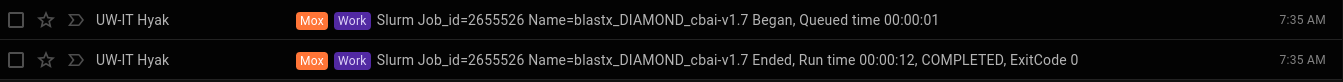
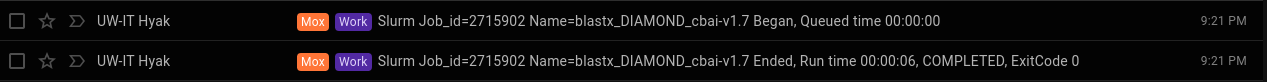
add updated runtime from rerun with fixed fastqs

diff --git a/_posts/2020/2020-05-27-Transcriptome-Annotation---C.bairdi-Transcriptome-v1.7-Using-DIAMOND-BLASTx-on-Mox.md b/_posts/2020/2020-05-27-Transcriptome-Annotation---C.bairdi-Transcriptome-v1.7-Using-DIAMOND-BLASTx-on-Mox.md
@@ -97,7 +97,7 @@ ${diamond} blastx \
 
 #### RESULTS
 
-As usual, ridiculously fast - 13 seconds!
+As usual, ridiculously fast - 6 seconds!
 
 ![cbai v1.7 diamond blastx runtime](https://github.com/RobertsLab/sams-notebook/blob/master/images/screencaps/20200527_cbai_diamond_blastx_transcriptome_v1.7_runtime.png?raw=true)
 
